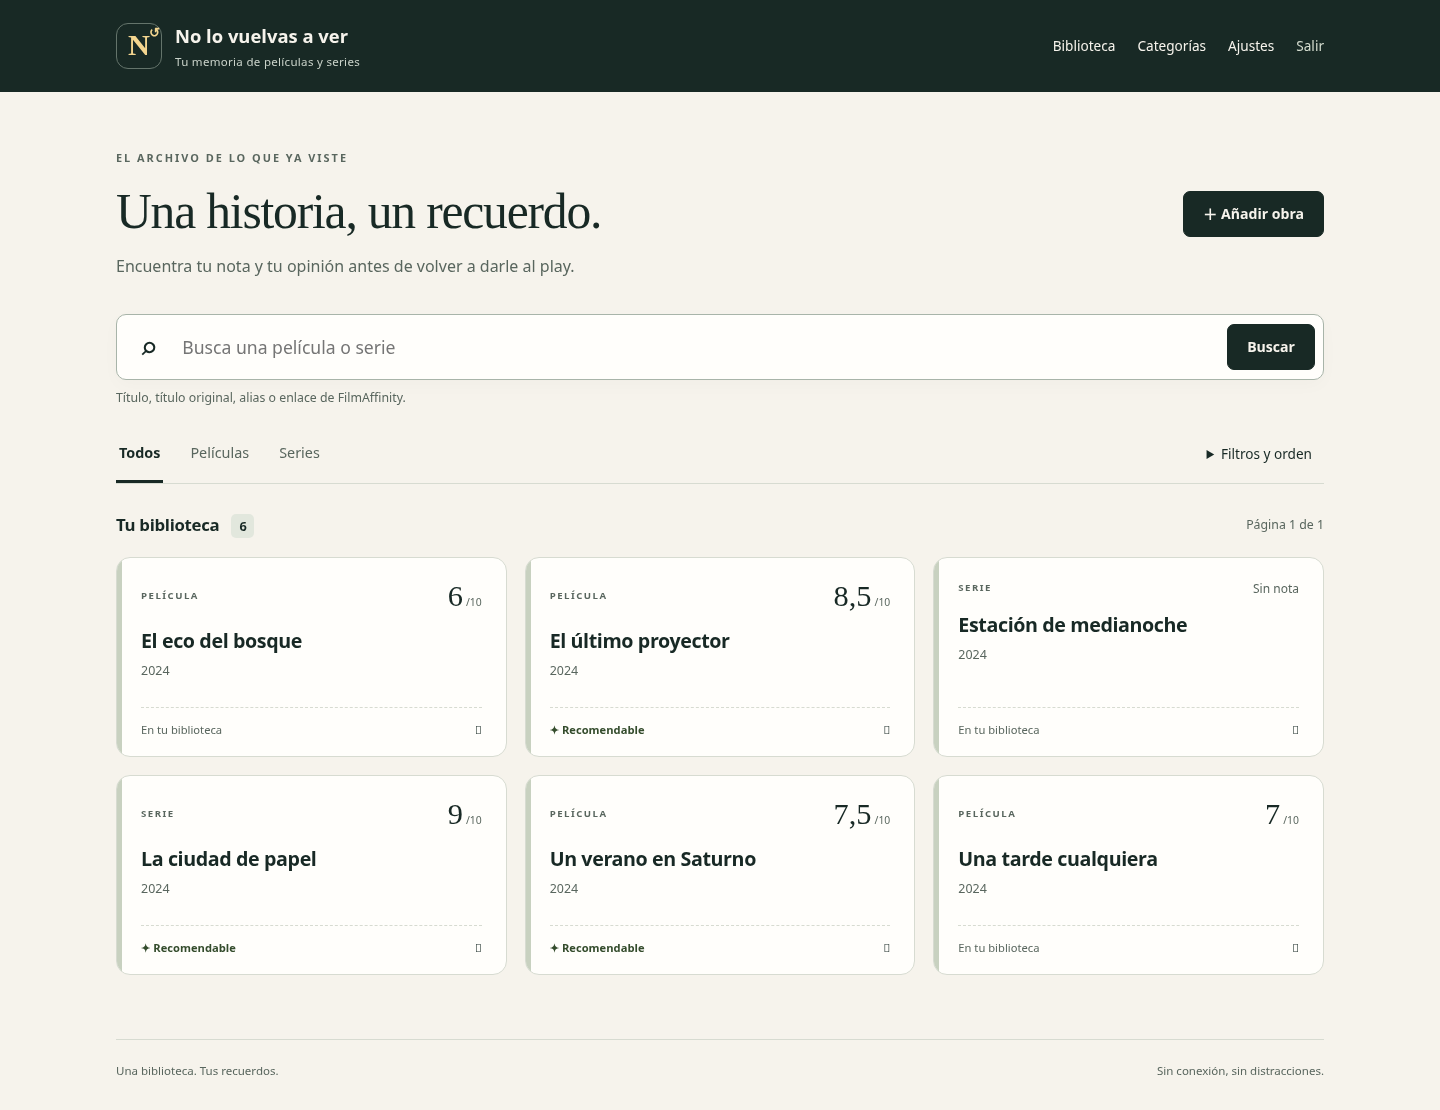
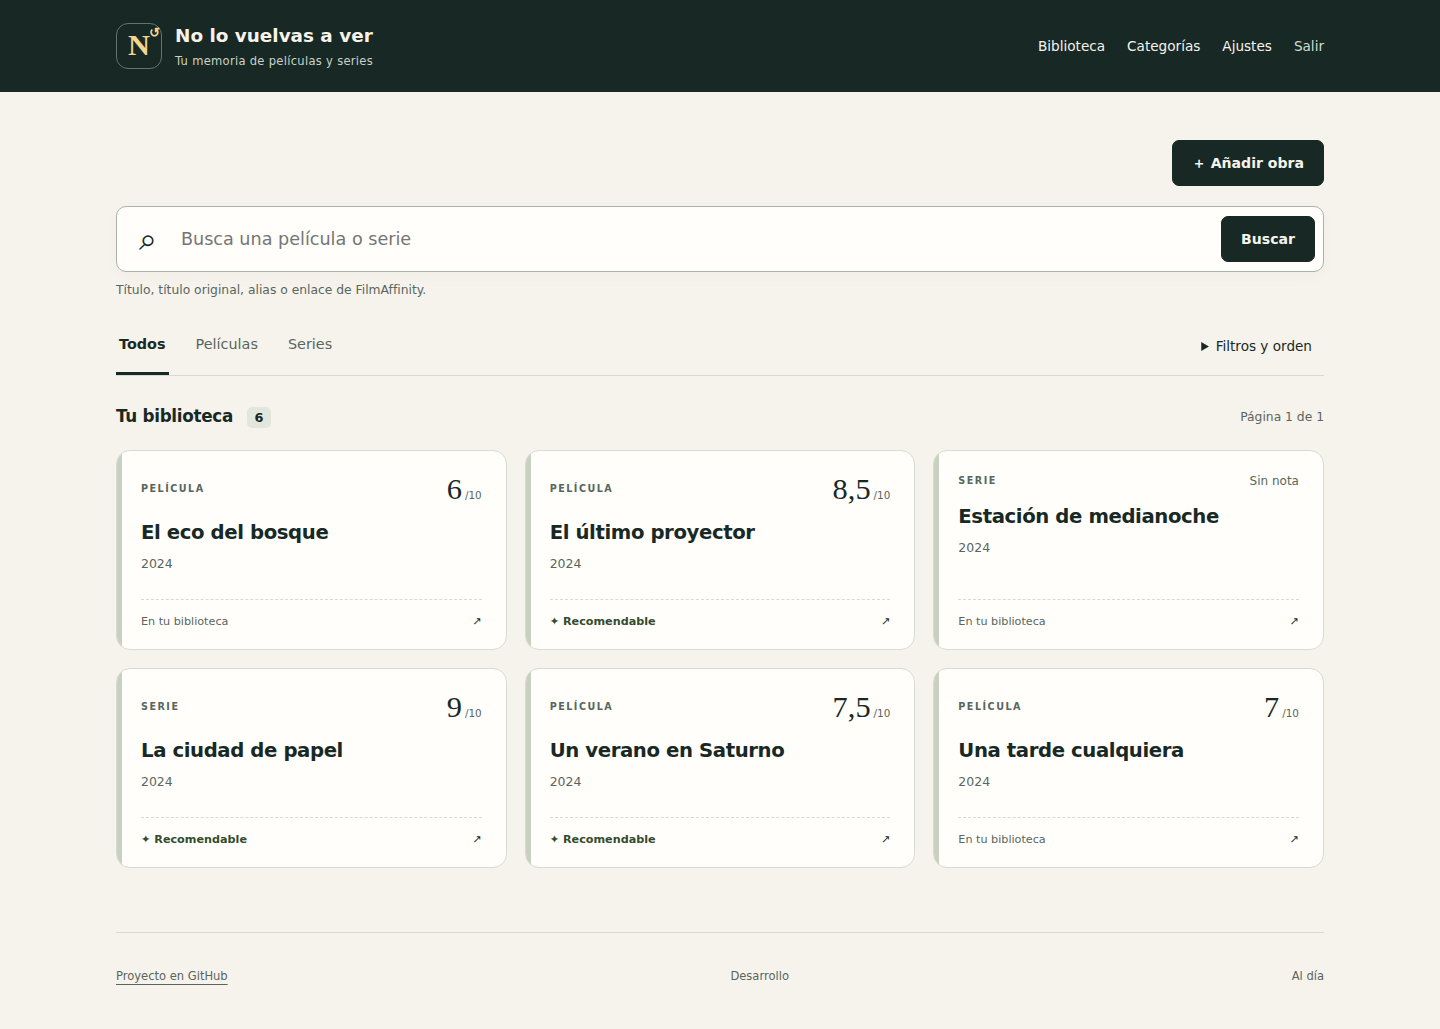
docs: registrar verificaciones del avisador y actualizar capturas

diff --git a/docs/verificacion.md b/docs/verificacion.md
@@ -6,7 +6,9 @@ Comprobaciones ejecutadas el 11 de octubre de 2026 en un entorno Linux amd64 con
 
 Se retiró el bloque introductorio y se añadió enlace a GitHub, identificación de la versión instalada y aviso opcional de actualizaciones. Las pruebas aisladas del avisador pasaron **23 casos en 0,10 s**: releases estables comparadas numéricamente, cambios de main, caché de seis horas, reintento tras fallo, ausencia de identificador, desactivación, datos inválidos, respuestas grandes, redirecciones rechazadas, concurrencia y metadatos de git archive. No consultan GitHub real. Lint, formato y comprobación de diff pasan.
 
-La batería completa, imágenes, Compose, metadatos de archivo y flujos de escritorio/móvil se verifican en Controles. El script de navegador intercepta la comprobación para probar una nueva versión ficticia y un fallo de conexión sin consultar GitHub. Las verificaciones completas de las secciones siguientes corresponden a las revisiones indicadas allí; la identificación del archivo público real de GitHub de esta revisión se comprobará tras publicar el código.
+La [ejecución completa de Controles](https://github.com/kadyto/no-lo-vuelvas-a-ver/actions/runs/38164759703) del commit `83a8f5ef5d1f53b0aac9d062ac19b6f292e4fd0b` terminó correctamente: **125 pruebas pasan en amd64 (12,19 s) y arm64 (10,11 s)**. Lint, lock, ambos Compose, imágenes normales y desde archivo, smoke de acceso/persistencia/backup/UID-GID y lectura de revisión en la imagen pasan en ambas arquitecturas. La búsqueda con 10.000 obras y alias midió 14,1/14,4/23,1 ms (mínimo/mediana/máximo) en amd64 y 14,4/14,7/22,8 ms en arm64, con 24 fichas por página.
+
+El flujo de navegador de escritorio y móvil pasó en amd64, incluyendo una actualización ficticia y un fallo de conexión interceptados sin consultar GitHub. Las capturas del README se descargaron de esa ejecución y se inspeccionaron. La [comprobación del archivo público real](https://github.com/kadyto/no-lo-vuelvas-a-ver/actions/runs/38167869285) verifica que el tar descargado de GitHub para el commit `db8b1f8ee3e7795f85941fa8613fa6ec8cdcac0d` contiene exactamente ese SHA: `export-subst` funciona en el archivo que utiliza el stack. Es un control de integración explícito de CI tras publicar; las pruebas habituales siguen usando respuestas simuladas. No se ha publicado una release ni una imagen en GHCR.
 
 ## Revisión del cliente Requests
 
